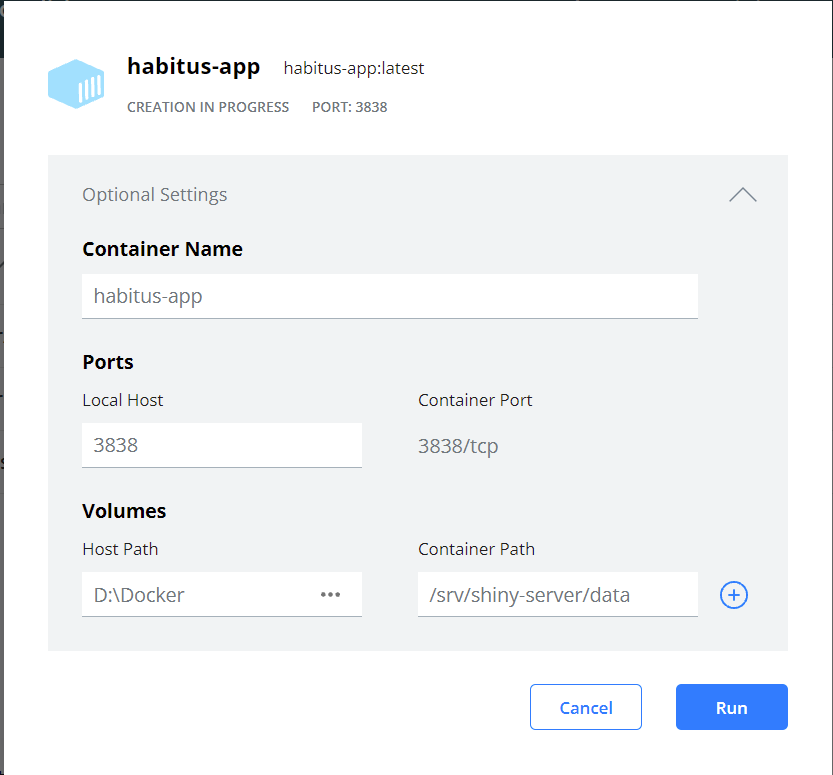
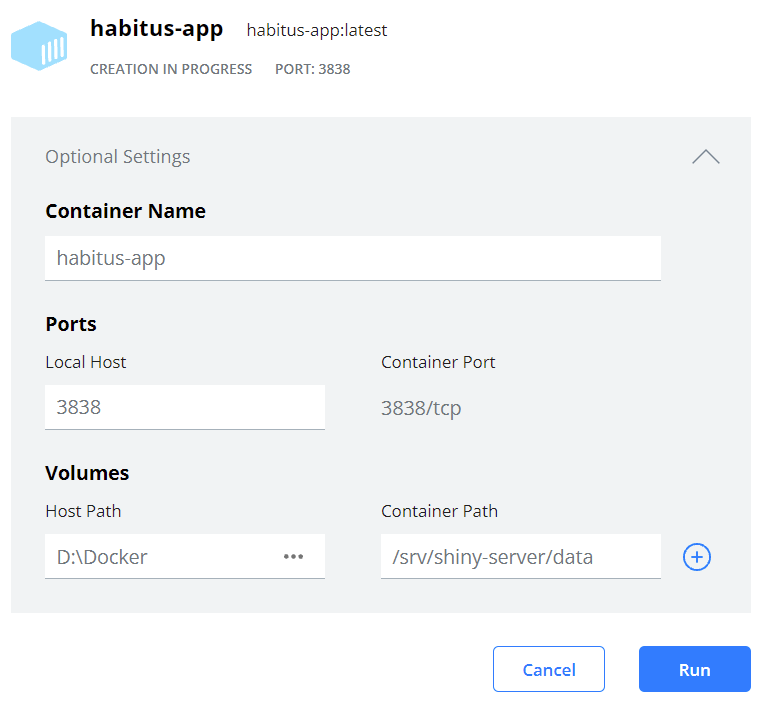
reduce size of figure

diff --git a/README.md b/README.md
@@ -70,7 +70,7 @@ This will build a Docker image  with R, HabitusGUI and all it's software depende
 2. Go to images
 3. Click run and update the optional settings as follows such that it has access to the relevant local directory.
 
-![image](Docker_windows_printscreen.png)
+<img src="Docker_windows_printscreen.png" width="500">
 
 4. Click on icon to launch in browser
 
